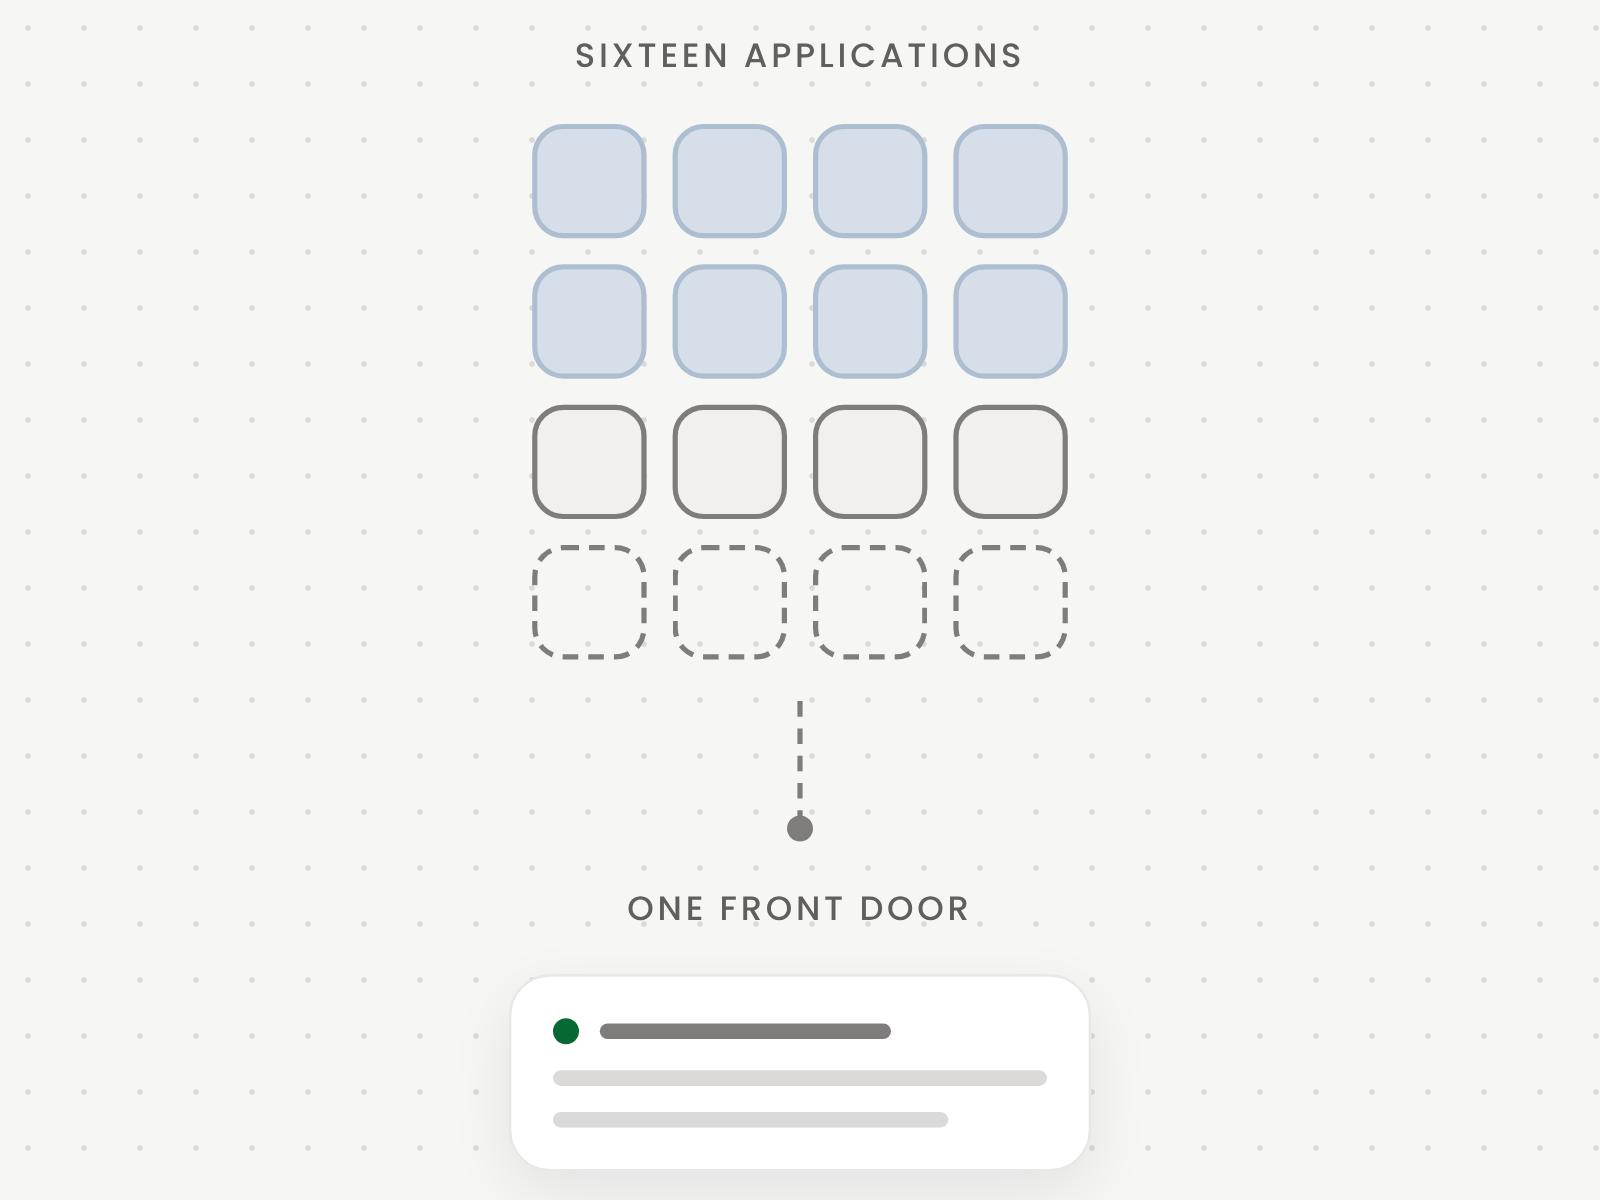
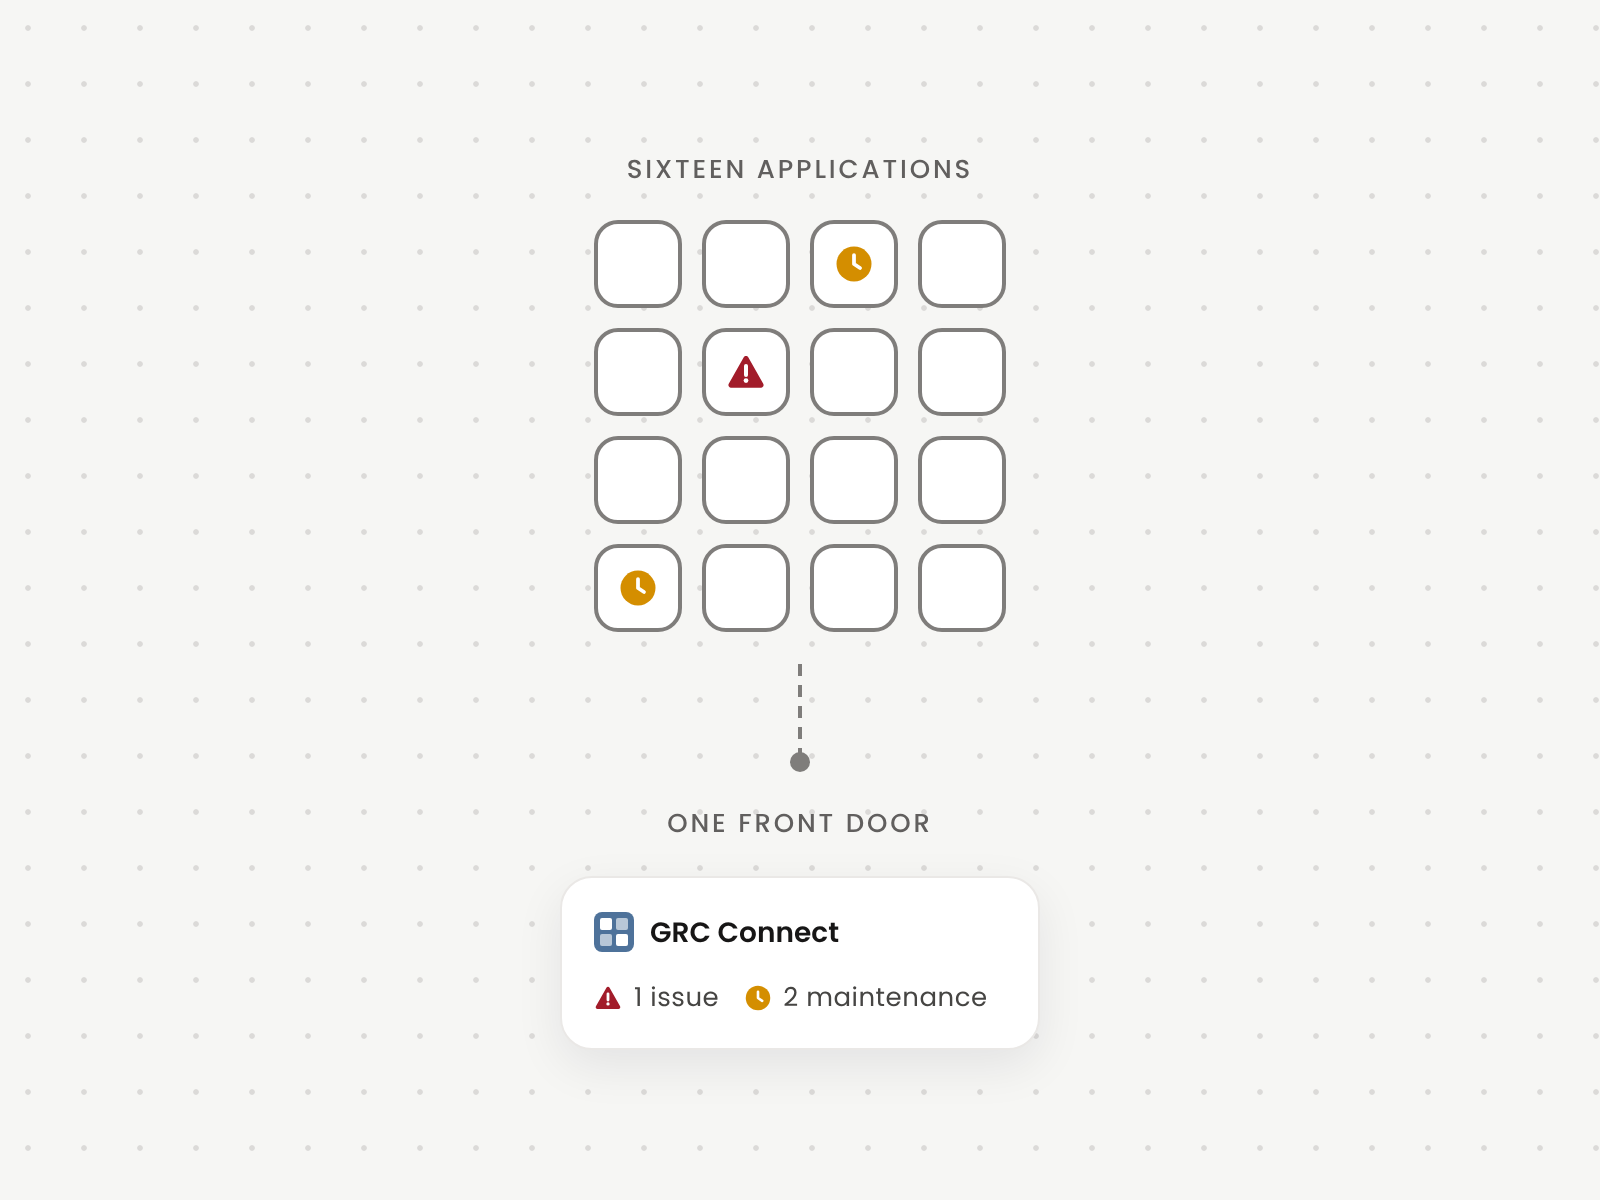
GRC study: new cover and hero showing the problem, shorter title
Cover and hero: sixteen neutral tiles, three marked with the study’s status shapes (one issue, two maintenance), above one front door card that shows them in one line. No dashed tiles or platform colors; the card sits fully inside the cover.
Title: “Sixteen applications, and no warning before any went down”, on the work card, the study page and its metadata.
Work cards: the title measure widens from 28ch to 36ch, so titles take two lines on desktop.

diff --git a/src/app/work/sixteen-applications-one-blind-spot/diagrams.tsx b/src/app/work/sixteen-applications-one-blind-spot/diagrams.tsx
@@ -70,23 +70,26 @@ const PLATFORMS: { key: Platform; label: string; count: number; apps: string[] }
 
 const label = "font-label text-xs font-medium uppercase tracking-[0.11em] text-text-tertiary";
 
-/* A gray bar standing in for a line of text. */
-function Bar({ w, strong = false }: { w: string; strong?: boolean }) {
-  return (
-    <span
-      className={`block h-1.5 rounded-full ${strong ? "bg-border-strong" : "bg-border-default"}`}
-      style={{ width: w }}
-    />
-  );
-}
-
 /* --------------------------------------------------------------------------
-   Hero subject: sixteen tiles above one front door. Upright, to fit the
-   hero's 16.125rem column, in the token chain's language: a tier label, the
-   thing, a dashed link, the next thing. */
+   Hero subject: sixteen applications above one front door, and the problem
+   between them (Alejandro, November 2026: the cover should show the study).
+   One neutral tile each, since the platform split is the constraint's
+   detail, not the cover's; three carry the study's status marks, one issue
+   and two maintenance windows, scattered where nobody would see them. The
+   front door gathers the same marks in one line, as the dashboard's status
+   line does. No dashed tiles: in this study dashed means not built. Upright,
+   to fit the hero's 16.125rem column; also rendered as the work index cover. */
+
+const HERO_MARKS: Record<number, "down" | "warn"> = { 2: "warn", 5: "down", 12: "warn" };
+
+/* The status marks draw in the hub's own colors; here they take the site's */
+const HERO_MARK_COLORS = {
+  "--real-red": "var(--status-danger)",
+  "--real-action": "var(--interactive-default)",
+  "--real-green": "var(--status-success)",
+} as CSSProperties;
 
 export function HeroSubject() {
-  const tiles = PLATFORMS.flatMap((p) => Array.from({ length: p.count }, () => p.key));
   const link = (
     <span className="flex flex-col items-center" aria-hidden="true">
       <span className="h-12 border-l-2 border-dashed border-border-strong" />
@@ -94,22 +97,38 @@ export function HeroSubject() {
     </span>
   );
   return (
-    <div className="flex flex-col items-center gap-4">
+    <div className="flex flex-col items-center gap-4" style={HERO_MARK_COLORS}>
       <span className={label}>Sixteen applications</span>
       <div className="grid grid-cols-4 gap-2.5">
-        {tiles.map((p, i) => (
-          <span key={i} className={`h-11 w-11 rounded-md border-2 ${PLATFORM_TILE[p]}`} />
+        {Array.from({ length: 16 }, (_, i) => (
+          <span
+            key={i}
+            className="grid h-11 w-11 place-items-center rounded-md border-2 border-border-strong bg-surface-raised"
+          >
+            {HERO_MARKS[i] && <StatusIcon tone={HERO_MARKS[i]} className="h-5 w-5" />}
+          </span>
         ))}
       </div>
       {link}
       <span className={label}>One front door</span>
-      <span className="flex w-56 flex-col gap-2.5 rounded-lg border border-border-subtle bg-surface-raised p-4 shadow-[0_8px_24px_color-mix(in_oklab,var(--shadow-ink)_8%,transparent)]">
-        <span className="flex items-center gap-2">
-          <span className="h-2.5 w-2.5 rounded-full bg-status-success" />
-          <Bar w="7rem" strong />
+      <span className="flex w-60 flex-col gap-3 rounded-lg border border-border-subtle bg-surface-raised p-4 shadow-[0_8px_24px_color-mix(in_oklab,var(--shadow-ink)_8%,transparent)]">
+        <span className="flex items-center gap-2 text-sm font-semibold text-text-primary">
+          <span className="grid h-5 w-5 grid-cols-2 gap-[2px] rounded-[4px] bg-interactive p-[3px]" aria-hidden="true">
+            <span className="rounded-[1px] bg-interactive-on" />
+            <span className="rounded-[1px] bg-interactive-on opacity-60" />
+            <span className="rounded-[1px] bg-interactive-on opacity-60" />
+            <span className="rounded-[1px] bg-interactive-on" />
+          </span>
+          GRC Connect
         </span>
-        <Bar w="100%" />
-        <Bar w="80%" />
+        <span className="flex items-center gap-3 text-xs whitespace-nowrap text-text-secondary">
+          <span className="flex items-center gap-1.5">
+            <StatusIcon tone="down" />1 issue
+          </span>
+          <span className="flex items-center gap-1.5">
+            <StatusIcon tone="warn" />2 maintenance
+          </span>
+        </span>
       </span>
     </div>
   );

diff --git a/src/content/case-studies.ts b/src/content/case-studies.ts
@@ -2,7 +2,7 @@
  * The case study index.
  *
  * Titles are the DECISION, not the project name. "Sixteen applications, and
- * no way to know when any of them would go down" tells a reader what the work was about;
+ * no warning before any went down" tells a reader what the work was about;
  * "GRC Connect" tells them nothing and asks them to click to find out.
  *
  * A note on what's named here: employers are real, because that's normal and
@@ -84,7 +84,7 @@ export const caseStudies: CaseStudy[] = [
   // lost the bigger one (fewer applications), so the standfirst names both.
   {
     slug: "sixteen-applications-one-blind-spot",
-    title: "Sixteen applications, and no way to know when any of them would go down",
+    title: "Sixteen applications, and no warning before any went down",
     standfirst:
       "Eighty-two people said they didn’t need better applications; they needed to see the system. I argued for building the hub in React instead of Salesforce, and won. I argued for fewer applications, and lost.",
     disciplines: ["Enterprise UX", "Research", "Stakeholder alignment"],
@@ -93,11 +93,12 @@ export const caseStudies: CaseStudy[] = [
     period: "2022",
     status: "published",
     // The hero's own art on the dotted ground, rendered from the page
-    // (./diagrams HeroSubject): sixteen tiles by platform above one front
-    // door. Made for this site; nothing from USAA.
+    // (./diagrams HeroSubject): sixteen tiles, three marked with an issue or
+    // maintenance, above one front door that shows them in one line. Made
+    // for this site; nothing from USAA.
     cover: {
       src: sixteenCover,
-      alt: "Sixteen square tiles in four rows: two rows tinted blue, one row in solid gray outline, one row in dashed outline. A dashed line runs down from them to a single white card with a green status dot, labeled One front door.",
+      alt: "Sixteen square tiles in four rows, three of them marked: one with a red warning triangle, two with amber clocks. A dashed line runs down to a single card labeled One front door, GRC Connect, showing 1 issue and 2 maintenance in one line.",
     },
   },
   // Third, and the GRC study's counterpart: there the argument for custom

diff --git a/src/app/work/sixteen-applications-one-blind-spot/page.tsx b/src/app/work/sixteen-applications-one-blind-spot/page.tsx
@@ -26,7 +26,7 @@ import {
 } from "./diagrams";
 
 export const metadata: Metadata = {
-  title: "Sixteen applications, and no way to know when any of them would go down",
+  title: "Sixteen applications, and no warning before any went down",
   description:
     "Eighty-two people said they did not need better applications; they needed to see the system. I argued for building the hub in React instead of Salesforce, and won. I argued for fewer applications, and lost.",
 };
@@ -83,7 +83,7 @@ export default function SixteenApplications() {
   return (
     <CaseStudyLayout
       breadcrumb={[{ label: "Work", href: "/work" }, { label: "Sixteen applications" }]}
-      title="Sixteen applications, and no way to know when any of them would go down."
+      title="Sixteen applications, and no warning before any went down."
       lede="A compliance organization ran its work across sixteen applications on three platforms, and nothing tied them together. I led the design of GRC Connect, the hub that did: one front door showing every application, what it is for and whether it is up."
       art={<DottedGround />}
       subject={<HeroSubject />}

diff --git a/src/design-system/components/WorkEntry.tsx b/src/design-system/components/WorkEntry.tsx
@@ -145,7 +145,7 @@ export function WorkEntry({ study, index }: { study: CaseStudy; index: number })
             hears one link named by the title, not the whole card read aloud.
             The ring is drawn on the card (has-focus-visible below), not around
             the title's text. */}
-        <h3 className="mt-5 max-w-[28ch] sm:mt-6 font-display text-2xl leading-[1.2] tracking-[-0.015em] text-text-primary text-balance transition-colors duration-[160ms] group-hover:text-text-accent">
+        <h3 className="mt-5 max-w-[36ch] sm:mt-6 font-display text-2xl leading-[1.2] tracking-[-0.015em] text-text-primary text-balance transition-colors duration-[160ms] group-hover:text-text-accent">
           {linked ? (
             <Link
               href={`/work/${study.slug}`}
